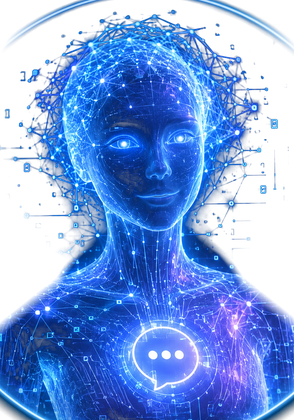
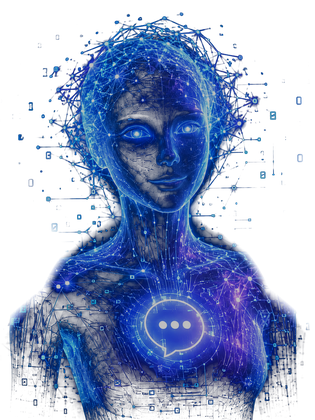
feat(agent): circle-free source, softer tone, natural edges, 30% smaller
Regenerated agent-figure.png from the updated reference artwork (user
removed the ring from the source image), with three refinements:
- wider crop plus soft alpha fades on left/right/top, so the figure
  never looks sliced on any side; only the waist-up bottom cut remains,
  which is the intentional framing
- RGB toned down 25% so she blends with the page instead of blasting
  over it
- launcher reduced 30%: 105x133 desktop, 78x99 mobile; panel offsets
  and hint position follow

diff --git a/docs/assets/stylesheets/portfolio.css b/docs/assets/stylesheets/portfolio.css
@@ -2756,8 +2756,8 @@ html { scrollbar-color: rgba(34, 211, 238, 0.35) #070B18; scrollbar-width: thin;
   right: 1rem;
   bottom: 1rem; /* same breathing room below as on the right */
   z-index: 90;
-  width: 150px;
-  height: 190px;
+  width: 105px;
+  height: 133px;
   display: block;
   border: none;
   background: none;
@@ -2804,7 +2804,7 @@ html { scrollbar-color: rgba(34, 211, 238, 0.35) #070B18; scrollbar-width: thin;
    floats beside her head, on the free (left) side */
 .pf-chat-hint {
   position: absolute;
-  top: 46px; /* beside her head (the top strip is hair headroom) */
+  top: 32px; /* beside her head (the top strip is hair headroom) */
   left: -16px;
   display: flex;
   align-items: center;
@@ -2834,16 +2834,16 @@ html { scrollbar-color: rgba(34, 211, 238, 0.35) #070B18; scrollbar-width: thin;
 
 /* phones: slightly smaller figure, tucked closer to the corner */
 @media screen and (max-width: 44.9375em) {
-  .pf-chat-launcher { width: 112px; height: 142px; right: 0.6rem; bottom: 0.6rem; }
+  .pf-chat-launcher { width: 78px; height: 99px; right: 0.6rem; bottom: 0.6rem; }
 }
 
 .pf-chat-panel {
   position: fixed;
   right: 1.4rem;
-  bottom: 13.9rem; /* clears the 190px-tall agent figure below it */
+  bottom: 10.3rem; /* clears the 133px-tall agent figure below it */
   z-index: 90;
   width: min(380px, 92vw);
-  height: min(26rem, calc(100vh - 16rem));
+  height: min(28rem, calc(100vh - 12.5rem));
   flex-direction: column;
   border-radius: 16px;
   border: 1px solid var(--portfolio-line);
@@ -3002,7 +3002,7 @@ html { scrollbar-color: rgba(34, 211, 238, 0.35) #070B18; scrollbar-width: thin;
 .pf-chat-form button svg { width: 18px; height: 18px; display: block; }
 
 @media (max-width: 480px) {
-  .pf-chat-panel { right: 0.7rem; left: 0.7rem; width: auto; bottom: 10.4rem; }
+  .pf-chat-panel { right: 0.7rem; left: 0.7rem; width: auto; bottom: 7.6rem; }
 }
 
 @media (prefers-reduced-motion: reduce) {

diff --git a/docs/assets/javascripts/site.js b/docs/assets/javascripts/site.js
@@ -204,10 +204,10 @@
     var seed = 7;
     function rnd() { seed = (seed * 16807) % 2147483647; return seed / 2147483647; }
 
-    /* the artwork: 294x420 source drawn at 133x190 design units,
+    /* the artwork: 315x420 source drawn at 142.5x190 design units,
        bottom-anchored and centered */
-    var IMG = { x: 8.5, y: 0, w: 133, h: 190 };
-    var HEADC = { x: 76, y: 56 };  /* her head center, for hair anchors */
+    var IMG = { x: 3.75, y: 0, w: 142.5, h: 190 };
+    var HEADC = { x: 74, y: 61 };  /* her head center, for hair anchors */
     var img = new Image();
     var imgReady = false;
     var particles = [];
